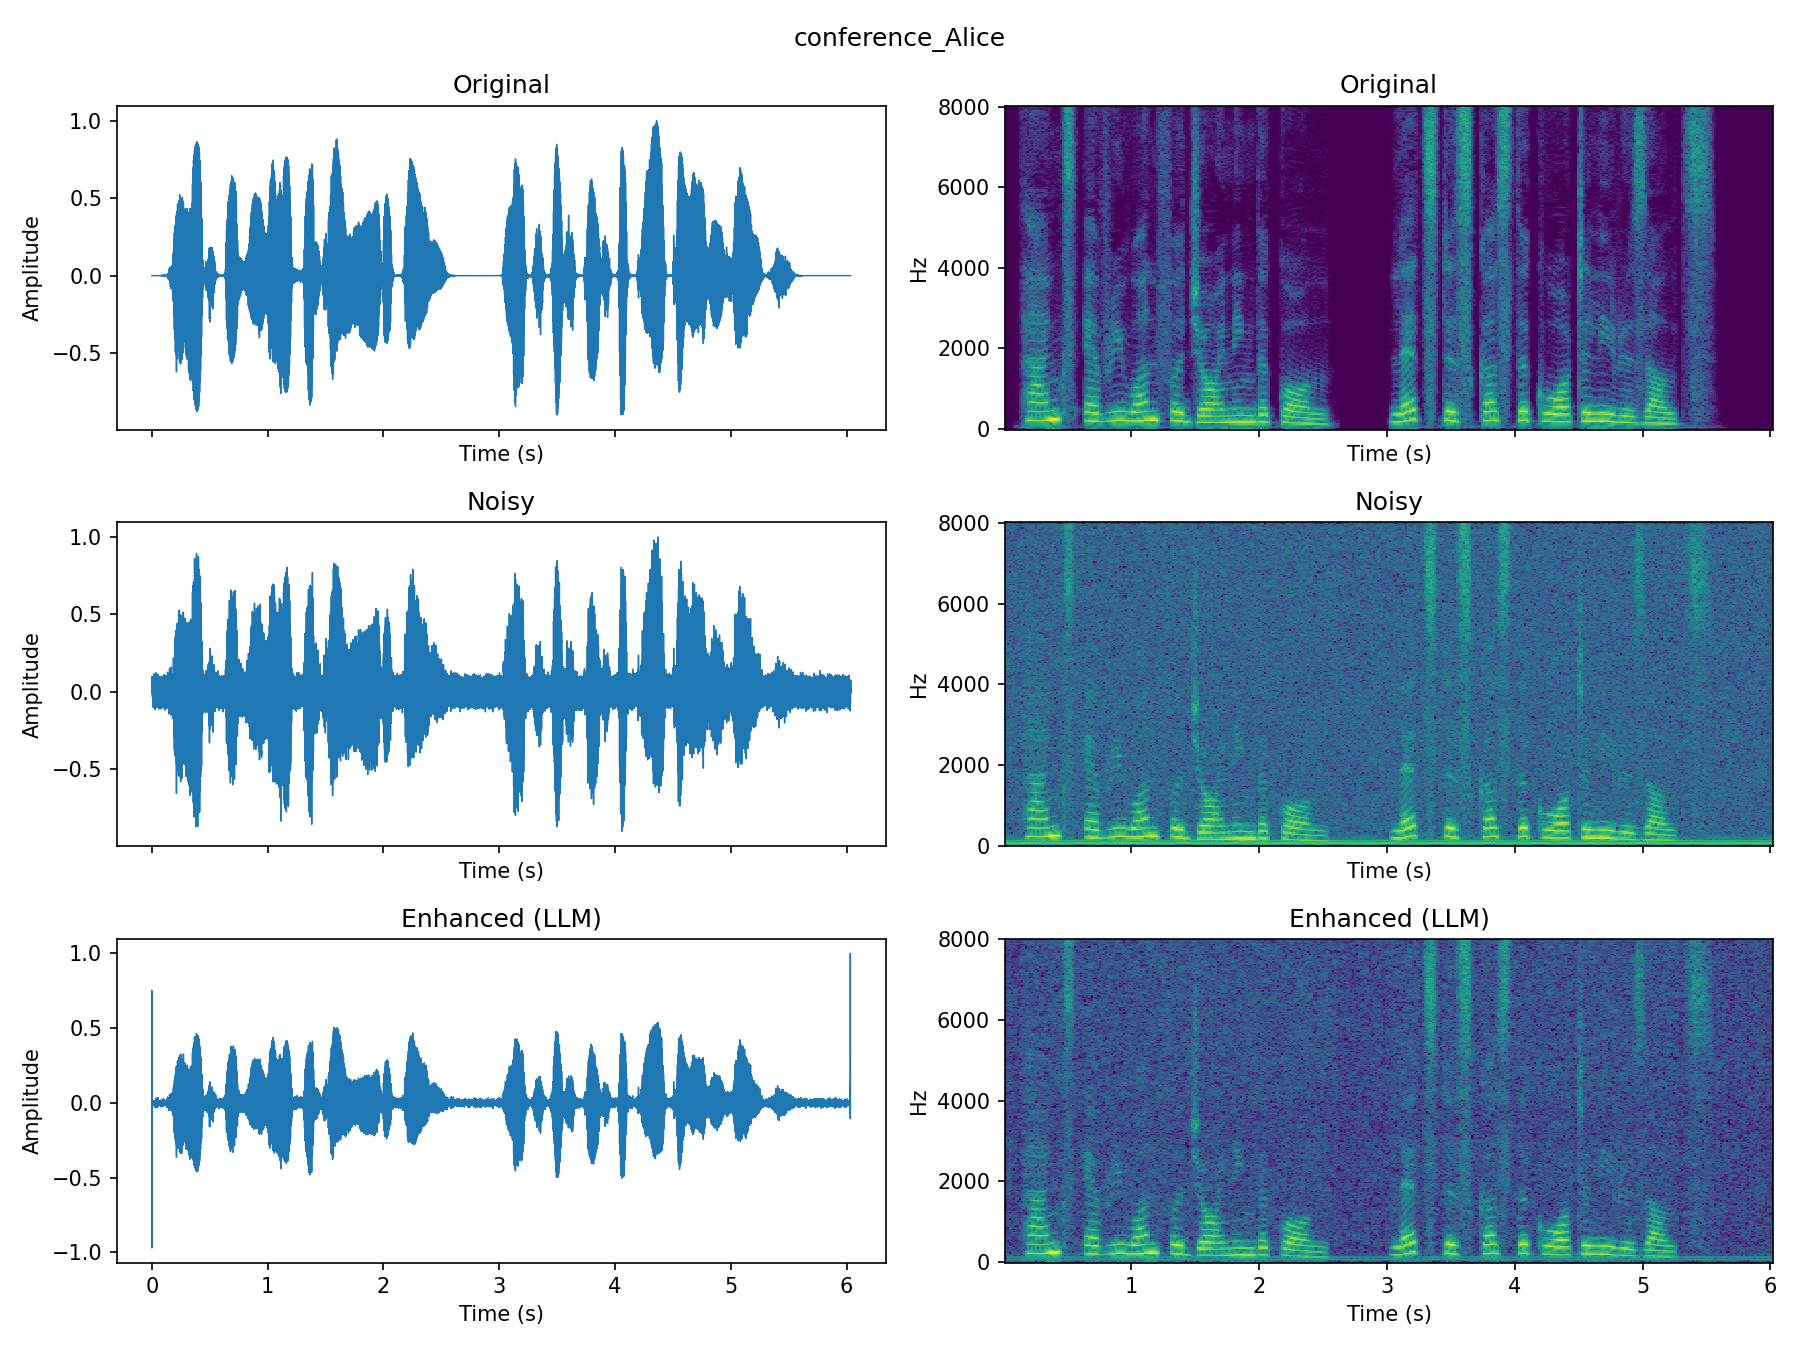
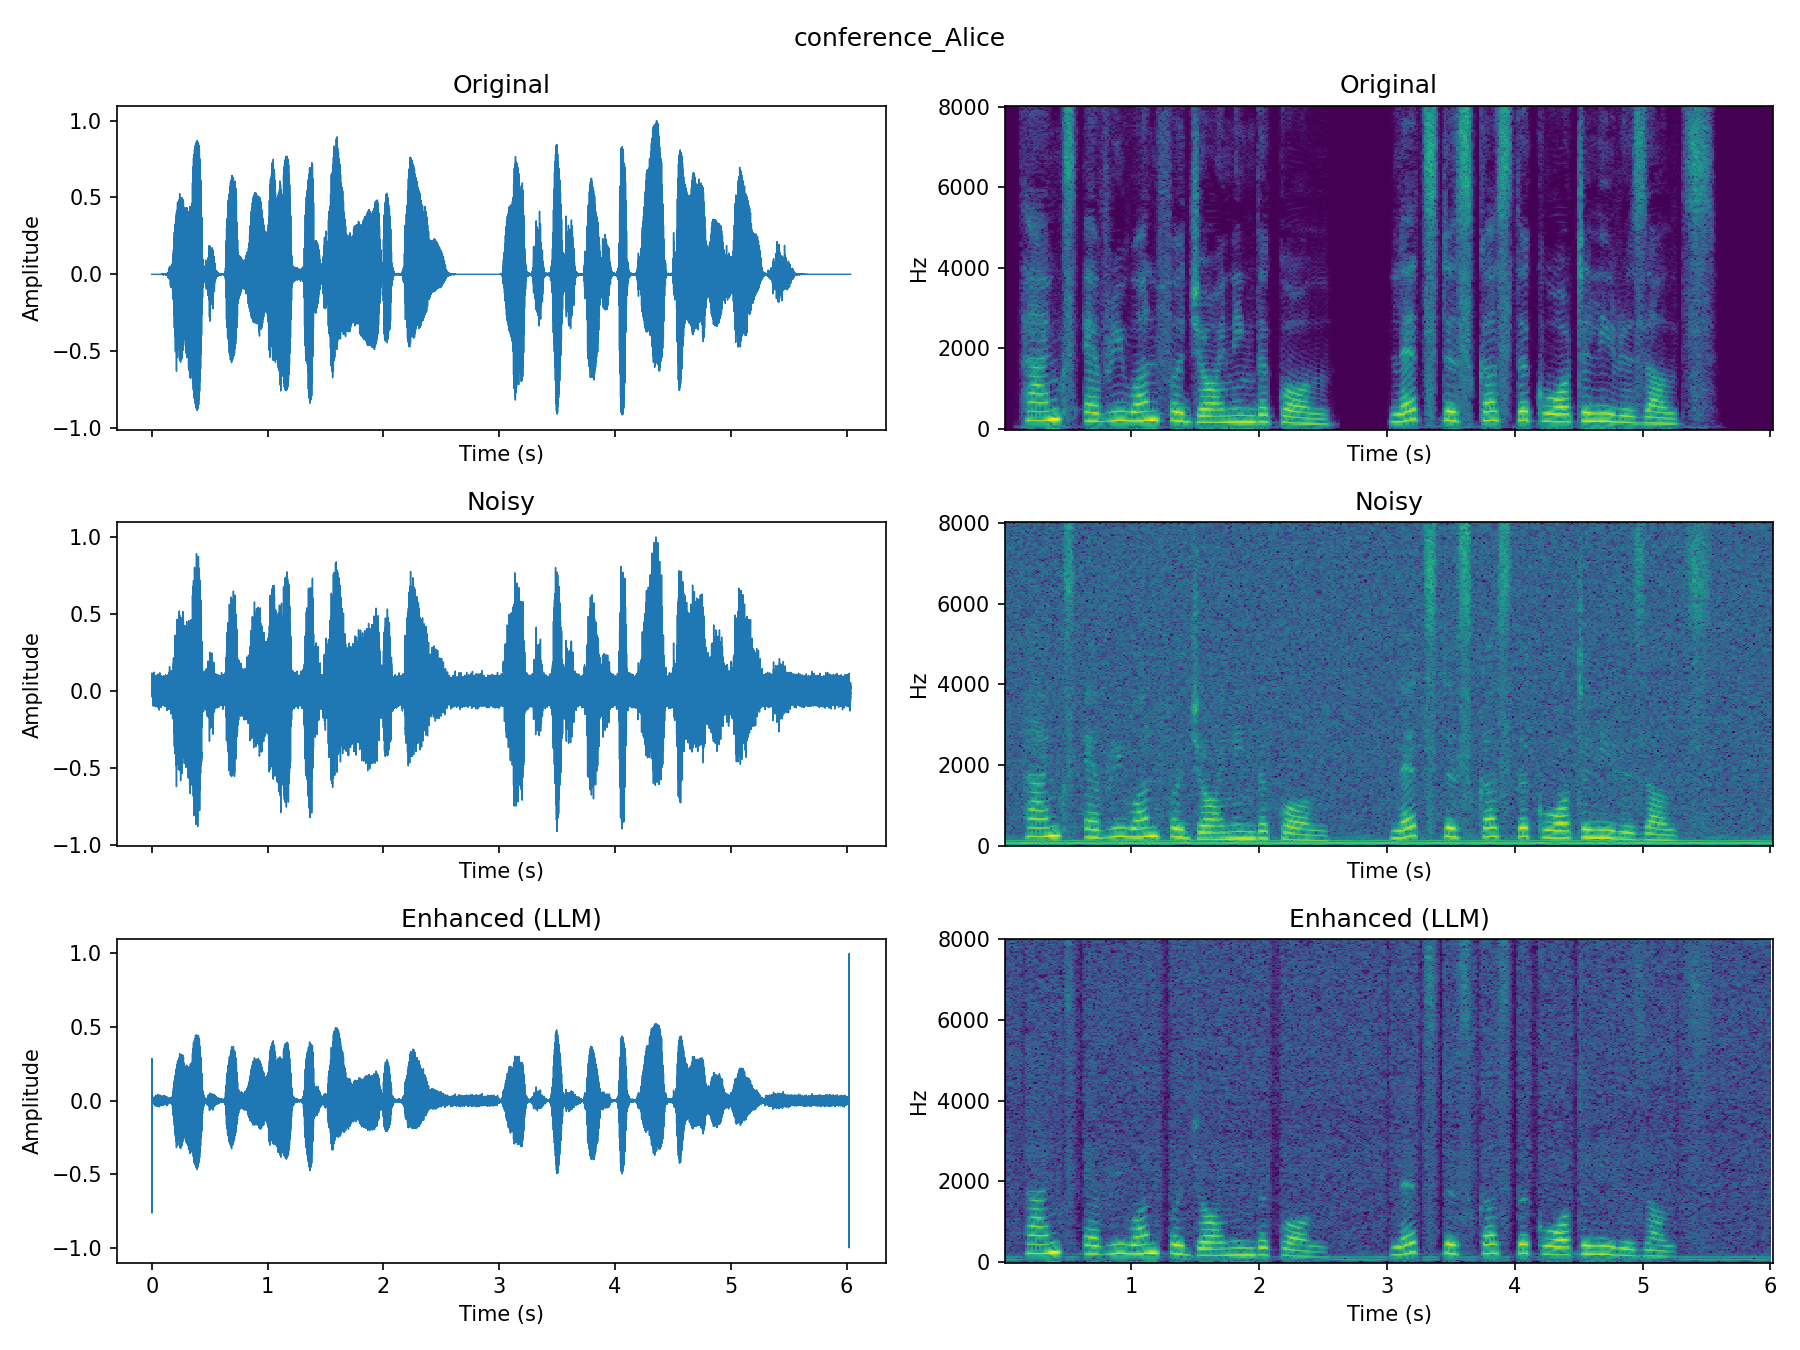
Tune denoising balance and update metrics

diff --git a/enhanced_speech_demo.py b/enhanced_speech_demo.py
@@ -10,6 +10,7 @@ from datetime import datetime
 from scipy.io import wavfile
 
 from src.audio.speech_synthesizer import SpeechSynthesizer, SpeechScenarioGenerator, create_noisy_speech
+from src.audio.neural_denoiser import NeuralDenoiser
 from src.hearing_aid.controller import HearingAidController
 from src.hearing_aid.profiles import UserProfile
 
@@ -39,6 +40,15 @@ def save_wav(audio: np.ndarray, sample_rate: int, output_path: str) -> None:
 def has_audio(audio: np.ndarray) -> bool:
     """Return True when audio is non-empty."""
     return isinstance(audio, np.ndarray) and audio.size > 0
+
+
+def apply_neural_denoiser(denoiser: NeuralDenoiser, audio: np.ndarray) -> np.ndarray:
+    """Apply stronger neural denoising with fallback on errors."""
+    try:
+        return denoiser.denoise(audio, suppression_strength=0.8)
+    except Exception as exc:
+        print(f"   ⚠  Neural denoising skipped: {exc}")
+        return audio
 
 
 def test_enhanced_synthetic_speech():
@@ -80,6 +90,15 @@ def test_enhanced_synthetic_speech():
         sample_rate=sample_rate
     )
     print("   ✓ Hearing aid controller ready")
+
+    print("\n🔧 Initializing neural denoiser...")
+    denoiser_model_path = "models/neural_denoiser.pt"
+    denoiser = NeuralDenoiser(
+        sample_rate=sample_rate,
+        model_path=denoiser_model_path if os.path.exists(denoiser_model_path) else None,
+        device="cpu"
+    )
+    print("   ✓ Neural denoiser ready")
     
     # ========================================================================
     # GENERATE VOICE VARIATIONS
@@ -105,8 +124,11 @@ def test_enhanced_synthetic_speech():
         noisy_file = f"{output_dir}/voice_noisy_{voice_type}.wav"
         save_wav(noisy_audio, sample_rate, noisy_file)
 
-        # Process noisy audio through hearing aid with LLM decision
-        result = controller.process_audio(noisy_audio, use_llm_decision=True, force_decision=True)
+        # Stronger denoise before LLM decision
+        denoised_audio = apply_neural_denoiser(denoiser, noisy_audio)
+
+        # Process denoised audio through hearing aid with LLM decision
+        result = controller.process_audio(denoised_audio, use_llm_decision=True, force_decision=True)
         proc_file = f"{output_dir}/voice_enhanced_{voice_type}.wav"
         if result['status'] == 'success':
             proc_audio = result['processed_audio']
@@ -140,8 +162,11 @@ def test_enhanced_synthetic_speech():
         noisy_file = f"{output_dir}/emotion_noisy_{emotion}.wav"
         save_wav(noisy_audio, sample_rate, noisy_file)
 
-        # Process noisy audio through hearing aid with LLM decision
-        result = controller.process_audio(noisy_audio, use_llm_decision=True, force_decision=True)
+        # Stronger denoise before LLM decision
+        denoised_audio = apply_neural_denoiser(denoiser, noisy_audio)
+
+        # Process denoised audio through hearing aid with LLM decision
+        result = controller.process_audio(denoised_audio, use_llm_decision=True, force_decision=True)
         proc_file = f"{output_dir}/emotion_enhanced_{emotion}.wav"
         if result['status'] == 'success':
             proc_audio = result['processed_audio']
@@ -169,7 +194,10 @@ def test_enhanced_synthetic_speech():
         noisy_file = f"{output_dir}/conference_noisy_{speaker}.wav"
         save_wav(noisy_audio, sample_rate, noisy_file)
 
-        result = controller.process_audio(noisy_audio, use_llm_decision=True, force_decision=True)
+        # Stronger denoise before LLM decision
+        denoised_audio = apply_neural_denoiser(denoiser, noisy_audio)
+
+        result = controller.process_audio(denoised_audio, use_llm_decision=True, force_decision=True)
         if result['status'] == 'success':
             proc_file = f"{output_dir}/conference_enhanced_{speaker}.wav"
             proc_audio = result['processed_audio']
@@ -192,7 +220,10 @@ def test_enhanced_synthetic_speech():
         noisy_file = f"{output_dir}/casual_noisy_{speaker}.wav"
         save_wav(noisy_audio, sample_rate, noisy_file)
 
-        result = controller.process_audio(noisy_audio, use_llm_decision=True, force_decision=True)
+        # Stronger denoise before LLM decision
+        denoised_audio = apply_neural_denoiser(denoiser, noisy_audio)
+
+        result = controller.process_audio(denoised_audio, use_llm_decision=True, force_decision=True)
         if result['status'] == 'success':
             proc_file = f"{output_dir}/casual_enhanced_{speaker}.wav"
             proc_audio = result['processed_audio']

diff --git a/src/hearing_aid/controller.py b/src/hearing_aid/controller.py
@@ -243,7 +243,7 @@ class HearingAidController:
             return max(low, min(high, value))
 
         clamped['noise_suppression_strength'] = clamp(
-            float(clamped.get('noise_suppression_strength', 0.5)), 0.0, 0.6
+            float(clamped.get('noise_suppression_strength', 0.5)), 0.0, 0.65
         )
         clamped['speech_enhancement_level'] = clamp(
             float(clamped.get('speech_enhancement_level', 0.3)), 0.0, 0.5

diff --git a/output_enhanced_speech/evaluation_summary.md b/output_enhanced_speech/evaluation_summary.md
@@ -2,9 +2,9 @@
 
 | Scenario | Duration (s) | SNR Noisy (dB) | SNR Enhanced (dB) | SNR Improvement (dB) | STOI Noisy | STOI Enhanced | SI-SDR Enhanced (dB) |
 |---|---:|---:|---:|---:|---:|---:|---:|
-| voice_female | 4.28 | 12.24 | 4.85 | -7.39 | 0.898 | 0.912 | 11.81 |
-| emotion_neutral | 4.00 | 10.40 | 12.07 | 1.68 | 1.000 | 0.996 | 14.47 |
-| emotion_sad | 3.33 | 9.39 | 13.48 | 4.09 | 0.999 | 0.994 | 16.47 |
-| conference_Alice | 6.03 | 12.27 | 6.09 | -6.18 | 0.922 | 0.929 | 12.80 |
-| casual_Bob | 5.17 | 14.08 | 5.42 | -8.65 | 0.839 | 0.850 | 11.16 |
-| voice_male | 4.28 | 12.24 | 4.86 | -7.39 | 0.897 | 0.910 | 11.98 |
+| voice_female | 4.28 | 11.91 | 4.57 | -7.34 | 0.896 | 0.808 | 11.49 |
+| emotion_neutral | 4.00 | 10.24 | 13.70 | 3.47 | 1.000 | 0.961 | 13.76 |
+| emotion_sad | 3.33 | 10.31 | 15.82 | 5.52 | 1.000 | 0.968 | 16.25 |
+| conference_Alice | 6.03 | 12.23 | 5.51 | -6.72 | 0.928 | 0.869 | 11.70 |
+| casual_Bob | 5.17 | 13.78 | 5.28 | -8.50 | 0.844 | 0.781 | 11.83 |
+| voice_male | 4.28 | 12.18 | 4.57 | -7.61 | 0.899 | 0.815 | 11.63 |
